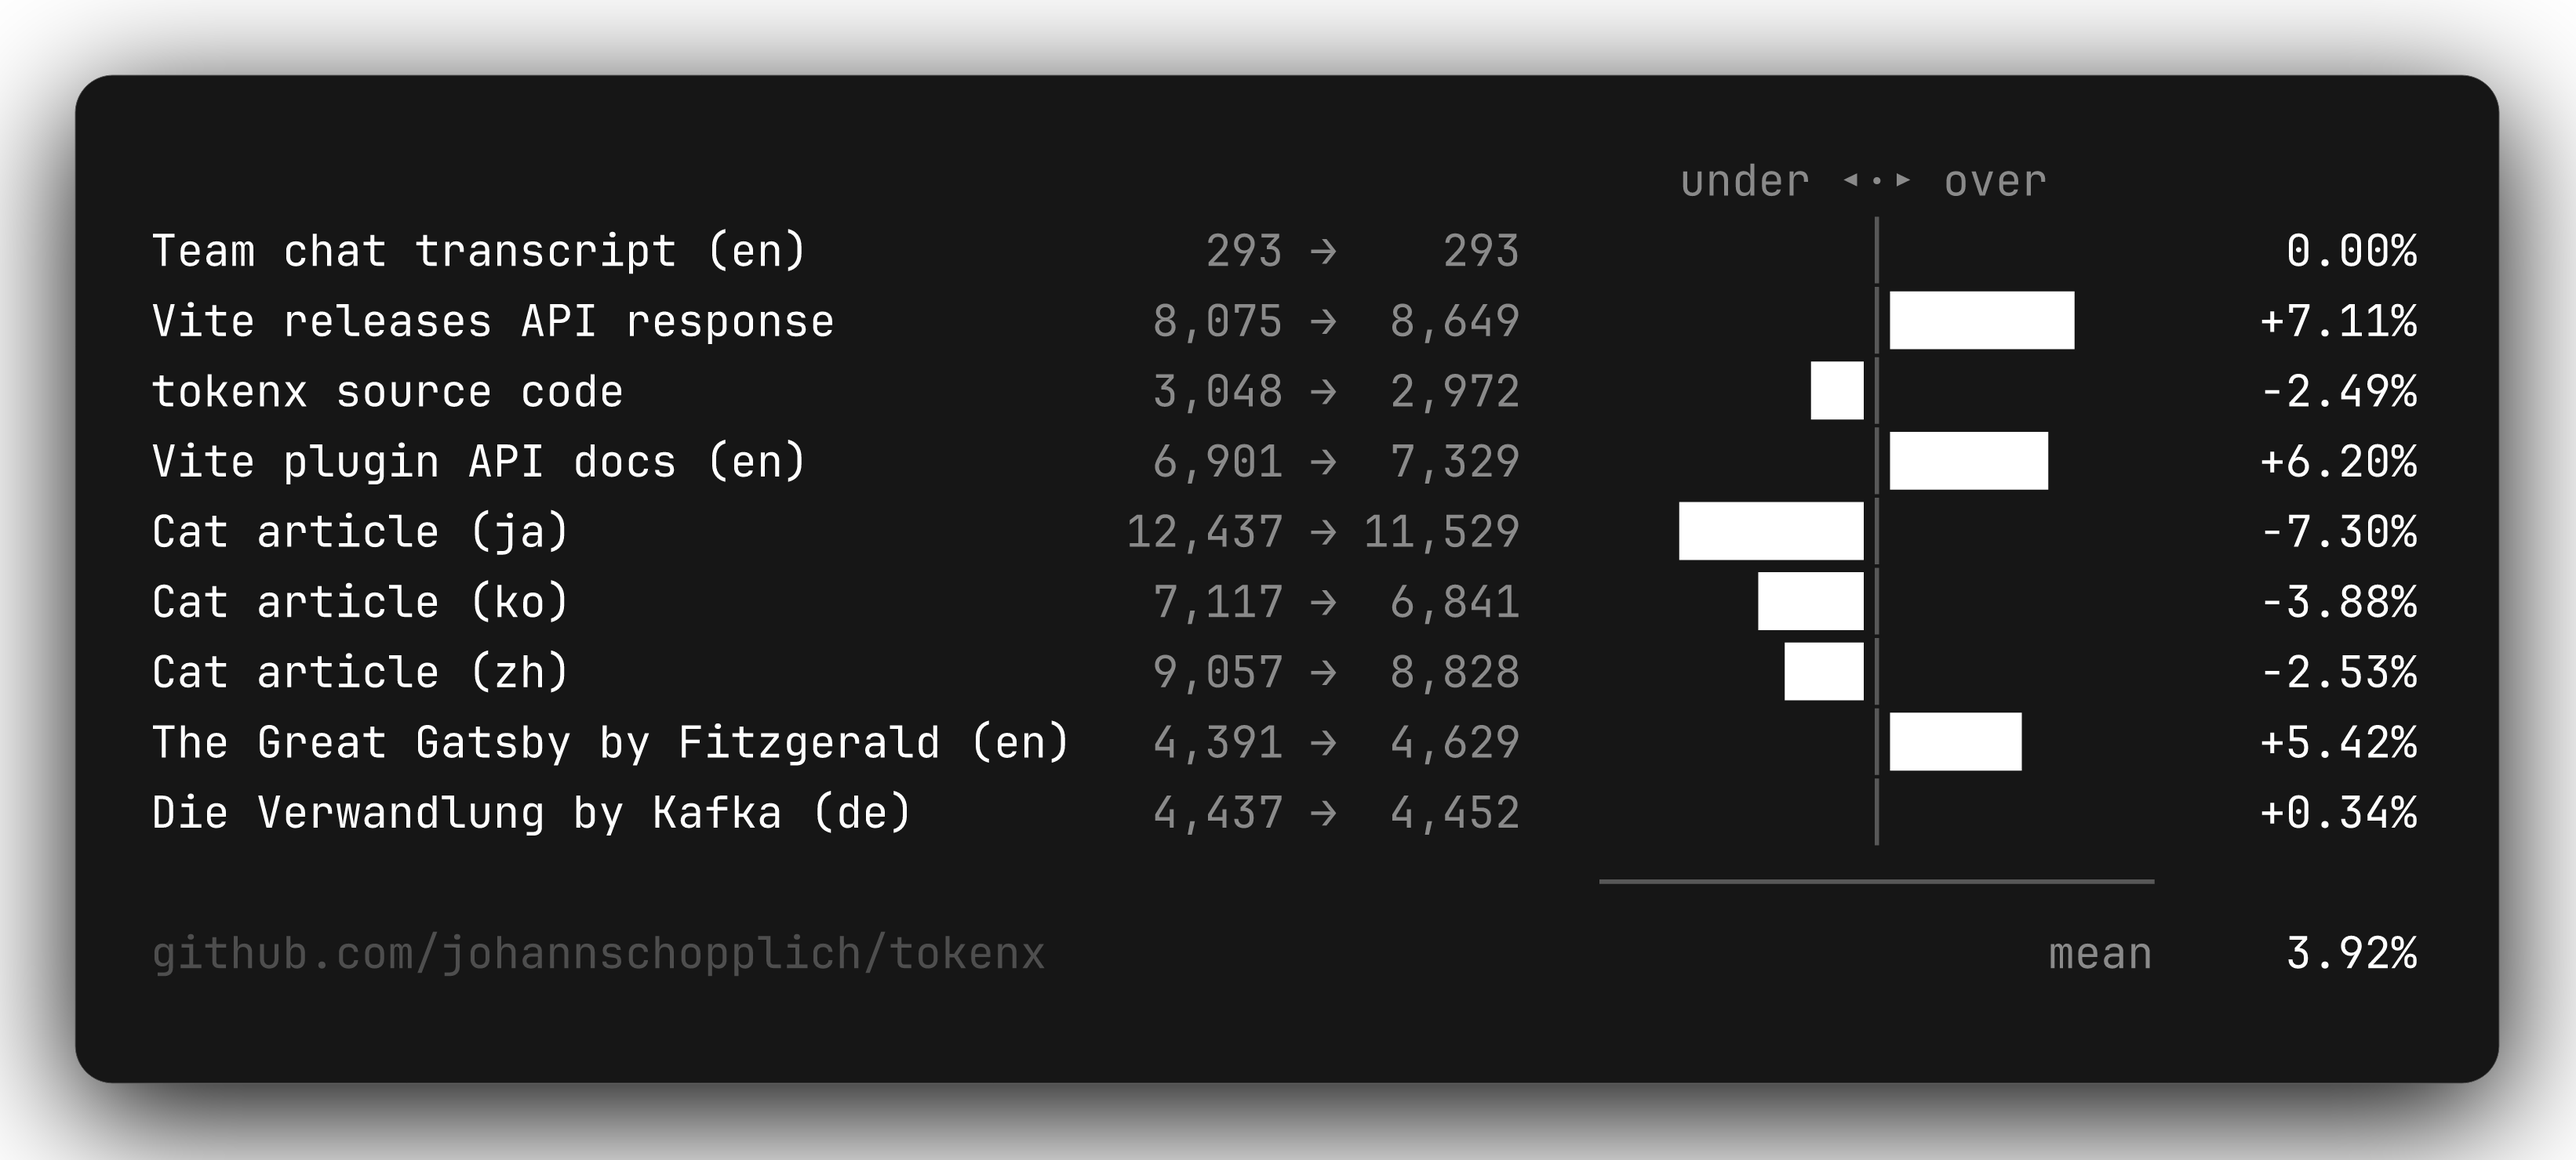
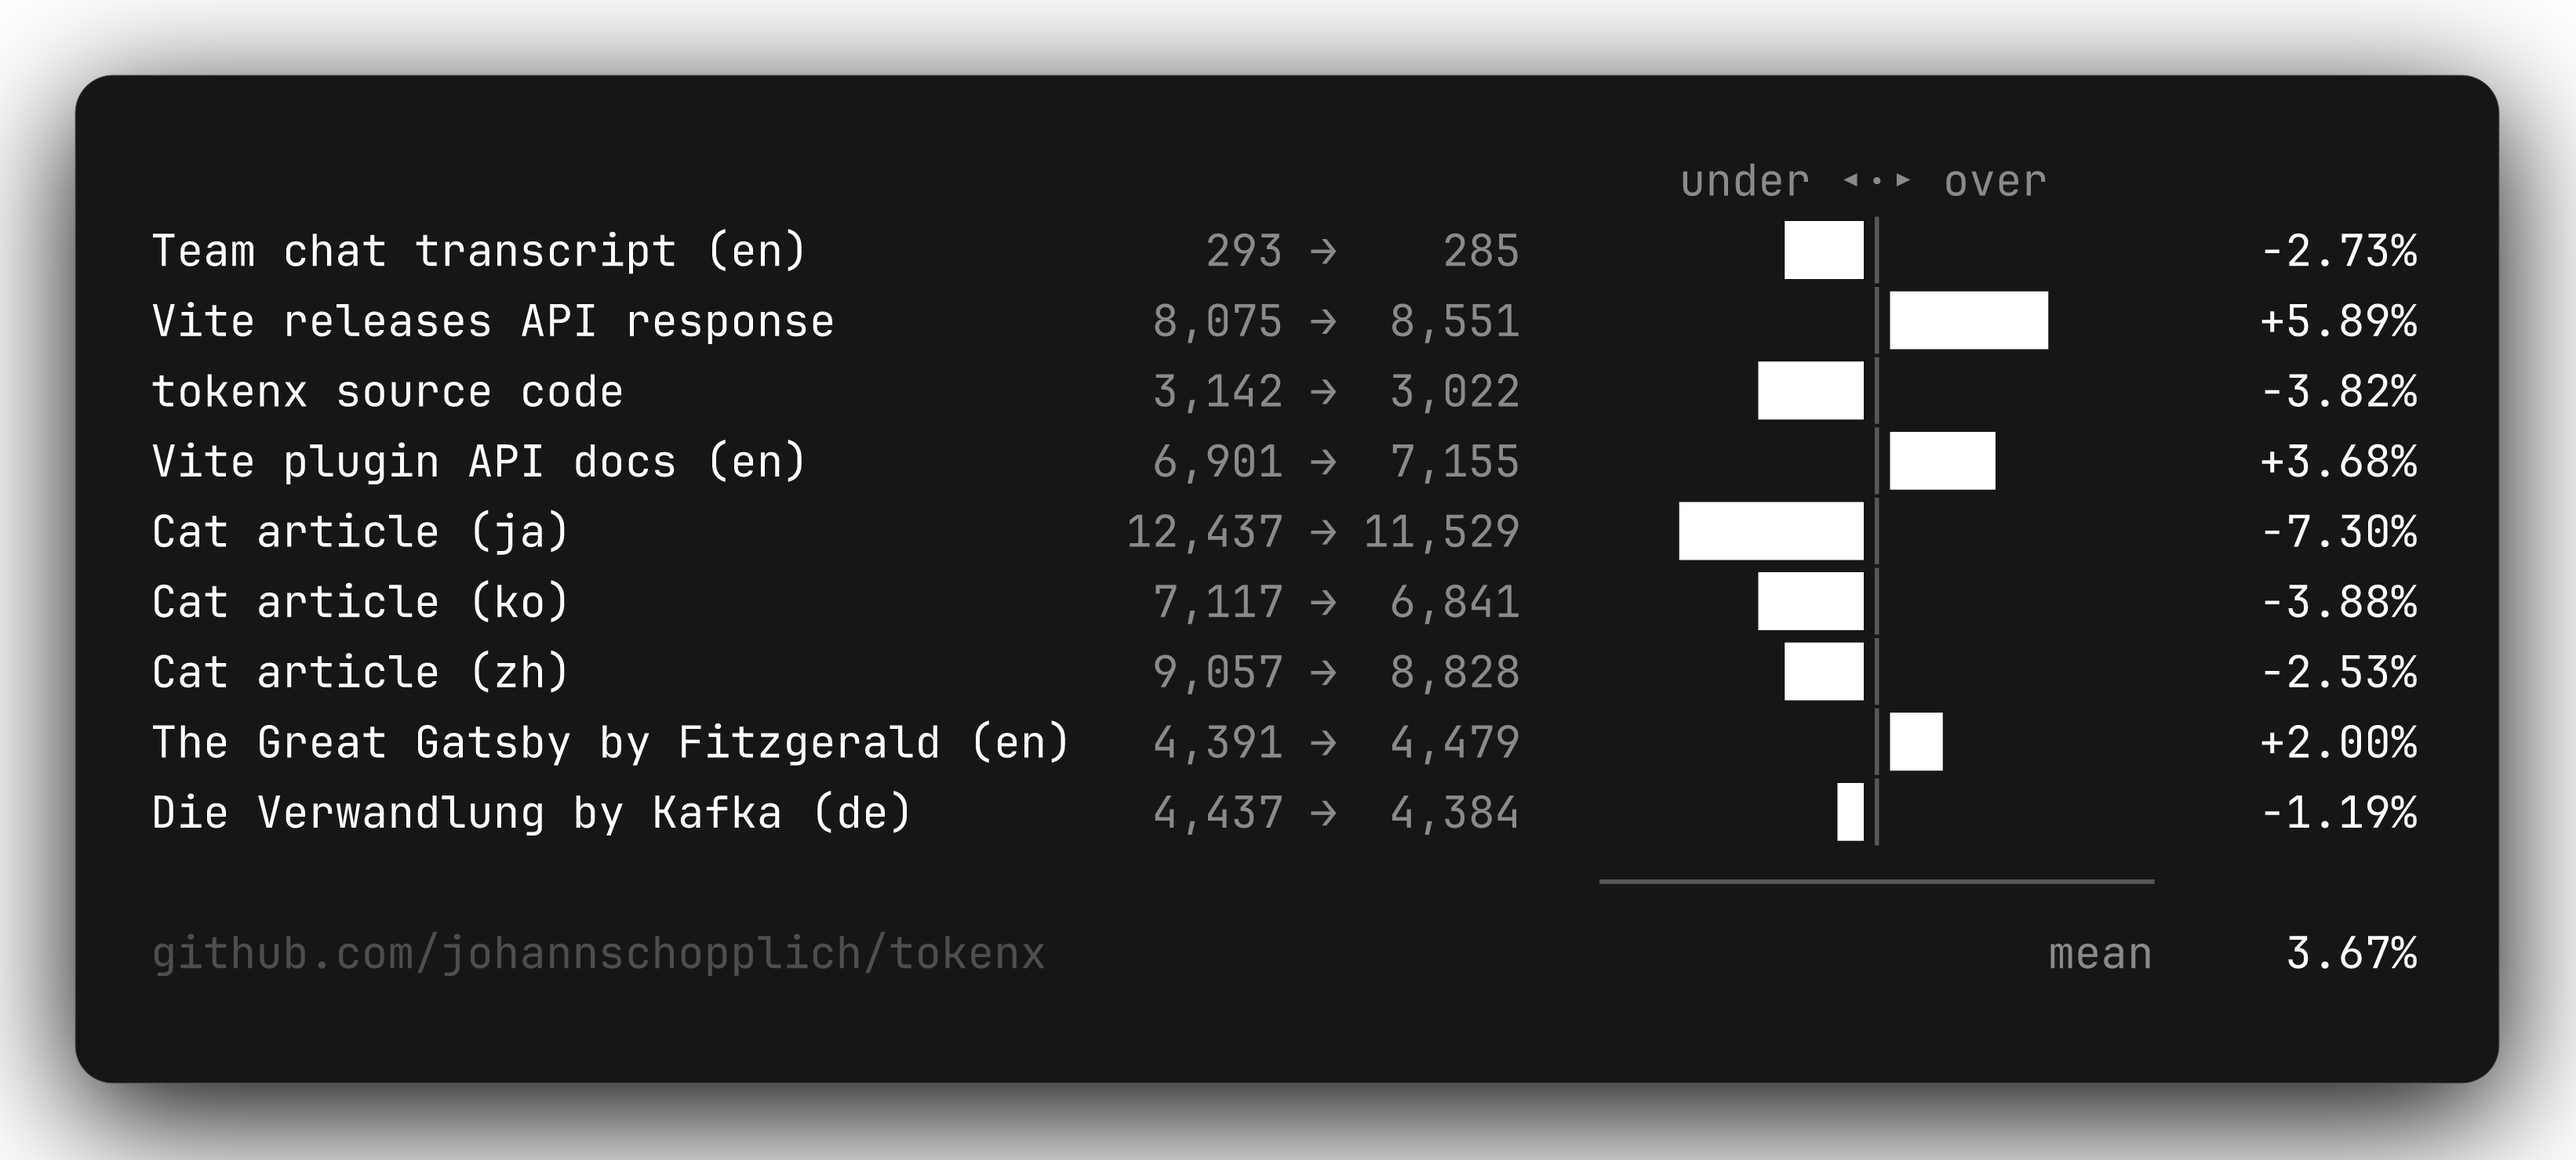
feat: price lowercase words up to eight characters as one token

diff --git a/test/heuristics.test.ts b/test/heuristics.test.ts
@@ -277,37 +277,37 @@ describe('heuristic calibration', () => {
         short   14 → 12   -14.3%  Zudem interagiert Kaffee signifikant mit vers…
         short   13 → 10   -23.1%  Der Kaffeeanbau brachte Arabien eine Monopolr…
         short   13 → 13     0.0%  In den deutschen Sprachraum war der Kaffee be…
-        medium  95 → 93    -2.1%  Ursprünglich konnten sich nur gut situierte B…
-        mean               -5.1%
-        mean |dev|         12.2%"
+        medium  95 → 92    -3.2%  Ursprünglich konnten sich nur gut situierte B…
+        mean               -5.3%
+        mean |dev|         12.4%"
       `)
     })
 
     it('prices French and Spanish text', () => {
       expect(measureBucket(BUCKETS.romance)).toMatchInlineSnapshot(`
-        "short   24 → 23    -4.2%  Les caféiers sont des arbustes des régions tr…
+        "short   24 → 22    -8.3%  Les caféiers sont des arbustes des régions tr…
         short   14 → 11   -21.4%  La consommation de café s'étendit à l'Égypte.
-        short   13 → 15   +15.4%  Les pamphlets et libelles sont distribués dan…
-        short   12 → 13    +8.3%  Dependiendo de la receta hay diversas formas …
-        short   18 → 16   -11.1%  Tienen hojas persistentes y opuestas y bajo u…
-        short   14 → 15    +7.1%  Produce un café fino y aromático, y necesita …
-        medium  69 → 65    -5.8%  Le café est une boisson énergisante psychotro…
-        medium  93 → 95    +2.2%  El café es una bebida que se obtiene mediante…
-        mean               -1.2%
-        mean |dev|          9.4%"
+        short   13 → 14    +7.7%  Les pamphlets et libelles sont distribués dan…
+        short   12 → 12     0.0%  Dependiendo de la receta hay diversas formas …
+        short   18 → 15   -16.7%  Tienen hojas persistentes y opuestas y bajo u…
+        short   14 → 14     0.0%  Produce un café fino y aromático, y necesita …
+        medium  69 → 62   -10.1%  Le café est une boisson énergisante psychotro…
+        medium  93 → 92    -1.1%  El café es una bebida que se obtiene mediante…
+        mean               -6.2%
+        mean |dev|          8.2%"
       `)
     })
 
     it('prices Polish text', () => {
       expect(measureBucket(BUCKETS.slavicLatin)).toMatchInlineSnapshot(`
         "short   21 → 19    -9.5%  Jedna z najpopularniejszych używek na świecie…
-        short   16 → 11   -31.3%  Nazwa kawy pochodzi prawdopodobnie od arabski…
+        short   16 → 10   -37.5%  Nazwa kawy pochodzi prawdopodobnie od arabski…
         short   27 → 19   -29.6%  Nazwa może wywodzić się od znanego z uprawy k…
         short   31 → 27   -12.9%  Wraz z ekspansją arabską zwyczaj picia kawy r…
         short   23 → 22    -4.3%  Początkowo budził on wiele nieufności, czy wr…
-        medium  81 → 73    -9.9%  Kawa – napój sporządzany z palonych, a następ…
-        mean              -16.3%
-        mean |dev|         16.3%"
+        medium  81 → 71   -12.3%  Kawa – napój sporządzany z palonych, a następ…
+        mean              -17.7%
+        mean |dev|         17.7%"
       `)
     })
 
@@ -352,14 +352,14 @@ describe('heuristic calibration', () => {
 
     it('prices English text at the default ratio', () => {
       expect(measureBucket(BUCKETS.english)).toMatchInlineSnapshot(`
-        "short   11 → 12    +9.1%  Coffee is a beverage brewed from roasted grou…
-        short   14 → 15    +7.1%  It is usually served hot, although chilled or…
+        "short   11 → 11     0.0%  Coffee is a beverage brewed from roasted grou…
+        short   14 → 14     0.0%  It is usually served hot, although chilled or…
         short   13 → 14    +7.7%  Green, unroasted coffee is traded as an agric…
         short   10 → 12   +20.0%  The drink appears to be a relatively recent d…
         short   15 → 17   +13.3%  Accounts differ on the origin of the coffee p…
-        medium  62 → 72   +16.1%  Coffee has become a vital cash crop for many …
-        mean              +12.2%
-        mean |dev|         12.2%"
+        medium  62 → 70   +12.9%  Coffee has become a vital cash crop for many …
+        mean               +9.0%
+        mean |dev|          9.0%"
       `)
     })
   })
@@ -426,10 +426,10 @@ describe('heuristic calibration', () => {
   describe('word length at the default ratio', () => {
     it('prices words of seven to ten characters', () => {
       expect(measureBucket(BUCKETS.wordsSevenToTen)).toMatchInlineSnapshot(`
-        "short  12 → 17   +41.7%  plugins because started prepend Western impre…
-        short  16 → 16     0.0%  squeezed permanent leverage balloon promise w…
-        mean             +20.8%
-        mean |dev|        20.8%"
+        "short  12 → 15   +25.0%  plugins because started prepend Western impre…
+        short  16 → 13   -18.8%  squeezed permanent leverage balloon promise w…
+        mean              +3.1%
+        mean |dev|        21.9%"
       `)
     })
   })
@@ -453,11 +453,11 @@ describe('heuristic calibration', () => {
     it('prices line breaks against their wrapped equivalent', () => {
       expect(measureBucket(BUCKETS.lineBreaks)).toMatchInlineSnapshot(`
         "medium  20 → 20     0.0%  - Install the package\\n- Run the CLI\\n- Inspe…
-        medium  27 → 28    +3.7%  alice: are we still on for the review?\\nbob: …
-        medium  30 → 35   +16.7%  The estimate walks the text once, splitting i…
+        medium  27 → 27     0.0%  alice: are we still on for the review?\\nbob: …
+        medium  30 → 33   +10.0%  The estimate walks the text once, splitting i…
         medium  41 → 30   -26.8%  name,plan,seats\\nusr_29f84h,pro,12\\nusr_71b2c…
-        mean               -1.6%
-        mean |dev|         11.8%"
+        mean               -4.2%
+        mean |dev|          9.2%"
       `)
     })
 
@@ -480,19 +480,19 @@ describe('heuristic calibration', () => {
       expect(measureBucket(BUCKETS.numeric)).toMatchInlineSnapshot(`
         "short   5 →  4   -20.0%  12345 67890
         short  12 → 11    -8.3%  2026-07-27 09:30:00
-        short  16 → 16     0.0%  Order #48291 shipped, tracking 94055118992231…
-        mean              -9.4%
-        mean |dev|         9.4%"
+        short  16 → 15    -6.3%  Order #48291 shipped, tracking 94055118992231…
+        mean             -11.5%
+        mean |dev|        11.5%"
       `)
     })
 
     it('prices code and URLs', () => {
       expect(measureBucket(BUCKETS.code)).toMatchInlineSnapshot(`
         "short  19 → 20    +5.3%  const total = items.reduce((sum, item) => sum…
-        short  11 → 16   +45.5%  https://example.com/path/to/resource?query=1
+        short  11 → 15   +36.4%  https://example.com/path/to/resource?query=1
         short  11 → 11     0.0%  SELECT id, name FROM users WHERE active = tru…
-        mean             +16.9%
-        mean |dev|        16.9%"
+        mean             +13.9%
+        mean |dev|        13.9%"
       `)
     })
   })
@@ -510,11 +510,11 @@ describe('heuristic calibration', () => {
 
     it('prices Markdown documents', () => {
       expect(measureBucket(BUCKETS.markdown)).toMatchInlineSnapshot(`
-        "medium  76 → 83    +9.2%  # Getting started\\n\\nInstall the package:\\n\\n…
-        medium  93 → 95    +2.2%  ## Plugin ordering\\n\\nA Vite plugin can addit…
-        medium  71 → 73    +2.8%  ### Conditional application\\n\\nBy default plu…
-        mean               +4.7%
-        mean |dev|          4.7%"
+        "medium  76 → 82    +7.9%  # Getting started\\n\\nInstall the package:\\n\\n…
+        medium  93 → 92    -1.1%  ## Plugin ordering\\n\\nA Vite plugin can addit…
+        medium  71 → 72    +1.4%  ### Conditional application\\n\\nBy default plu…
+        mean               +2.7%
+        mean |dev|          3.5%"
       `)
     })
   })

diff --git a/src/segments.ts b/src/segments.ts
@@ -7,6 +7,7 @@ const PATTERNS = {
   cjk: /[\u4E00-\u9FFF\u3400-\u4DBF\u3000-\u30FF\uFF00-\uFFEF\u2E80-\u2EFF\u31C0-\u31EF\u3200-\u32FF\u3300-\u33FF\uAC00-\uD7AF\u1100-\u11FF\u3130-\u318F\uA960-\uA97F\uD7B0-\uD7FF]/,
   numeric: /^\d+$/,
   punctuation: /[.,!?;(){}[\]<>:/\\|@#$%^&*+=`~_"-]/,
+  lowercaseWord: /^[a-z]+$/,
 } as const
 
 const TOKEN_SPLIT_PATTERN = new RegExp(`(\\s+|${PATTERNS.punctuation.source}+)`)
@@ -14,6 +15,7 @@ const TOKEN_SPLIT_PATTERN = new RegExp(`(\\s+|${PATTERNS.punctuation.source}+)`)
 // All ratios are calibrated against OpenAI's o200k_base encoding
 const DEFAULT_CHARS_PER_TOKEN = 7
 const SHORT_TOKEN_THRESHOLD = 3
+const LOWERCASE_WORD_SINGLE_TOKEN_LENGTH = 8
 const PUNCTUATION_CHARS_PER_TOKEN = 6
 const KANA_CHARS_PER_TOKEN = 1.4
 const HANGUL_CHARS_PER_TOKEN = 1.65
@@ -104,6 +106,13 @@ function estimateSegmentTokens(
   }
 
   if (segment.length <= SHORT_TOKEN_THRESHOLD) {
+    return 1
+  }
+
+  // o200k merges common lowercase words of up to eight characters into a
+  // single token. The lowercase gate keeps capitalized compounds and scripts
+  // without a built-in rule at the default ratio
+  if (segment.length <= LOWERCASE_WORD_SINGLE_TOKEN_LENGTH && PATTERNS.lowercaseWord.test(segment)) {
     return 1
   }
 

diff --git a/README.md b/README.md
@@ -24,17 +24,17 @@ Bars grow left when tokenx underestimates and right when it overestimates; the a
 
 ```
                                                           under ◂·▸ over
-Team chat transcript (en)               293 →    293             │               0.00%
-Vite releases API response            8,075 →  8,649             │███████       +7.11%
-tokenx source code                    3,048 →  2,972           ██│              -2.49%
-Vite plugin API docs (en)             6,901 →  7,329             │██████        +6.20%
+Team chat transcript (en)               293 →    285          ███│              -2.73%
+Vite releases API response            8,075 →  8,551             │██████        +5.89%
+tokenx source code                    3,142 →  3,022         ████│              -3.82%
+Vite plugin API docs (en)             6,901 →  7,155             │████          +3.68%
 Cat article (ja)                     12,437 → 11,529      ███████│              -7.30%
 Cat article (ko)                      7,117 →  6,841         ████│              -3.88%
 Cat article (zh)                      9,057 →  8,828          ███│              -2.53%
-The Great Gatsby by Fitzgerald (en)   4,391 →  4,629             │█████         +5.42%
-Die Verwandlung by Kafka (de)         4,437 →  4,452             │              +0.34%
+The Great Gatsby by Fitzgerald (en)   4,391 →  4,479             │██            +2.00%
+Die Verwandlung by Kafka (de)         4,437 →  4,384            █│              -1.19%
                                                        ─────────────────────
-                                                                        mean     3.92%
+                                                                        mean     3.67%
 ```
 
 <!-- /automd -->

diff --git a/docs/bench.md b/docs/bench.md
@@ -2,15 +2,15 @@ Bars grow left when tokenx underestimates and right when it overestimates; the a
 
 ```
                                                           under ◂·▸ over
-Team chat transcript (en)               293 →    293             │               0.00%
-Vite releases API response            8,075 →  8,649             │███████       +7.11%
-tokenx source code                    3,048 →  2,972           ██│              -2.49%
-Vite plugin API docs (en)             6,901 →  7,329             │██████        +6.20%
+Team chat transcript (en)               293 →    285          ███│              -2.73%
+Vite releases API response            8,075 →  8,551             │██████        +5.89%
+tokenx source code                    3,142 →  3,022         ████│              -3.82%
+Vite plugin API docs (en)             6,901 →  7,155             │████          +3.68%
 Cat article (ja)                     12,437 → 11,529      ███████│              -7.30%
 Cat article (ko)                      7,117 →  6,841         ████│              -3.88%
 Cat article (zh)                      9,057 →  8,828          ███│              -2.53%
-The Great Gatsby by Fitzgerald (en)   4,391 →  4,629             │█████         +5.42%
-Die Verwandlung by Kafka (de)         4,437 →  4,452             │              +0.34%
+The Great Gatsby by Fitzgerald (en)   4,391 →  4,479             │██            +2.00%
+Die Verwandlung by Kafka (de)         4,437 →  4,384            █│              -1.19%
                                                        ─────────────────────
-                                                                        mean     3.92%
+                                                                        mean     3.67%
 ```
